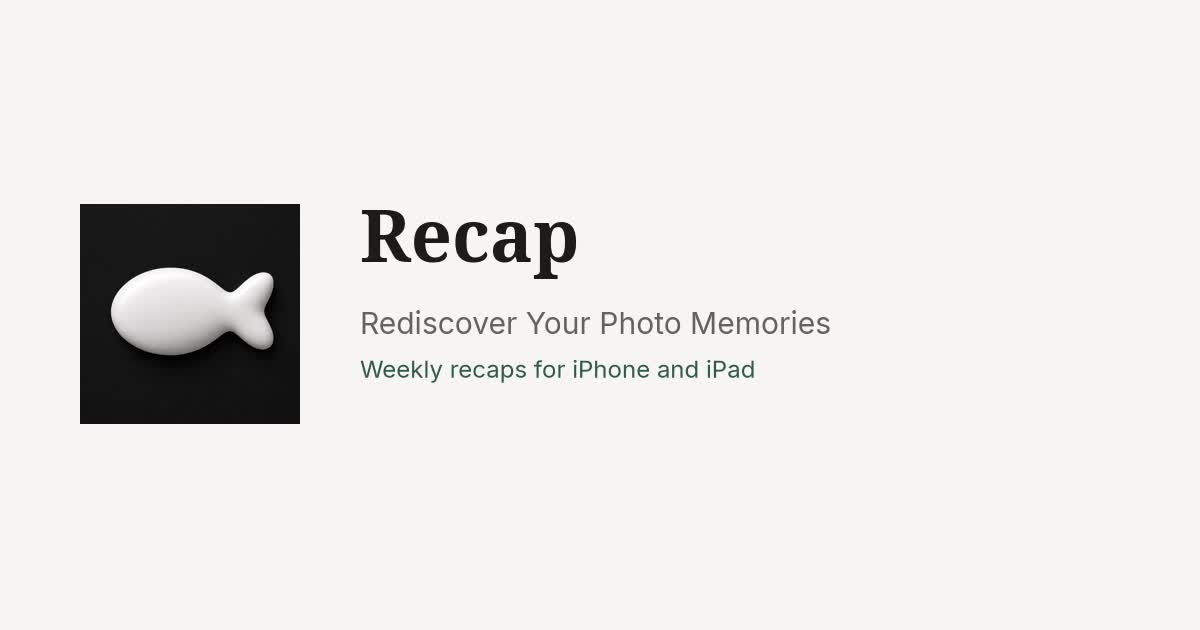
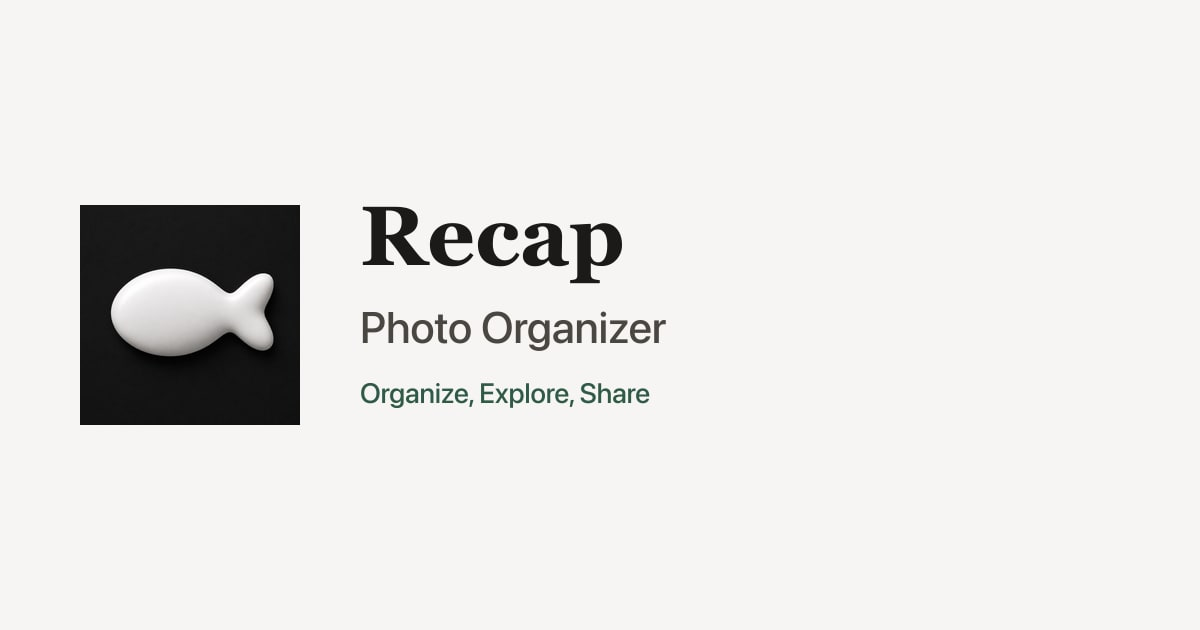
Redo the share images with the new App Store name and subtitle
Render og-home.jpg and og-home-zh.jpg from scripts/og-images.mjs: the app
icon beside "Recap", "Photo Organizer" / "相册整理" and the subtitle. Update
the og:image alt text to match.

Changed region(s): [[0.2775, 0.4825, 0.7092, 0.6635], [0.2775, 0.3016, 0.5242, 0.4524], [0.1233, 0.4222, 0.185, 0.4524]]

diff --git a/src/data/site.ts b/src/data/site.ts
@@ -74,7 +74,7 @@ export const copy = {
     lang: 'en', otherLanguage: '简体中文', otherLanguageShort: '中', languageLabel: 'Switch to Simplified Chinese', languageMenuLabel: 'Language', themeLabel: 'Theme', themeDark: 'Dark theme', themeLight: 'Light theme',
     title: 'Recap – Photo Organizer: Organize, Explore, Share',
     description: 'Recap is a weekly photo organizer for iPhone and iPad: an auto photo organizer for your library, with photo memories, a photo shuffle frame and easy sharing.',
-    ogImageAlt: 'Recap — Rediscover Your Photo Memories, with the Recap app icon',
+    ogImageAlt: 'Recap – Photo Organizer: Organize, Explore, Share, beside the Recap app icon',
     installFaqAnswer: 'Open the public invitation using a TestFlight button on this page. Install Apple’s TestFlight, accept the invitation, then install Recap. TestFlight availability is managed by Apple and the developer.',
     creditsDescription: 'Every travel, theme, and demo photograph on this site is sourced from Unsplash.',
     skip: 'Skip to content',
@@ -251,7 +251,7 @@ export const copy = {
     lang: 'zh-CN', otherLanguage: 'English', otherLanguageShort: 'EN', languageLabel: '切换为英文', languageMenuLabel: '语言', themeLabel: '主题', themeDark: '深色', themeLight: '浅色',
     title: 'Recap – 相册整理：按周回顾，自动整理照片',
     description: 'Recap 相册整理 App：按周回顾，按地点和内容自动整理照片，重温照片回忆，把手机变成随机播放的相框，一键分享。全程在设备上完成，适用于 iPhone 与 iPad。',
-    ogImageAlt: 'Recap — 重温照片里的生活，配 Recap 应用图标',
+    ogImageAlt: 'Recap 相册整理：整理 · 浏览 · 分享，配 Recap 应用图标',
     installFaqAnswer: '点击页面上的 TestFlight 按钮，打开公开邀请。安装 Apple TestFlight、接受邀请后，即可安装 Recap。名额和可用性由 Apple 与开发者管理。',
     creditsDescription: '本站旅行、主题和演示照片均来自 Unsplash。',
     skip: '跳到正文',

diff --git a/changelog.md b/changelog.md
@@ -4,9 +4,10 @@
 
 - 更新日志新增 v0.1 (264)「Recap 助手、清理与全新引导」（中英文），按 Recap 主仓库 11-03 之后的提交整理：助手按日期、季节、节日、时段、地点搜索并支持 Siri，清理相似照片，实时活动显示整理进度，往年同周切换年份，Duo 与 iPad 分栏照片详情，首次打开可先浏览示例图库。中间的 TestFlight 构建号未在仓库中留痕，合并为一条。
 - 更新日志参照 hive.ink/cn/updates 改为以功能更新和问题修复为主：每个版本是标题、一句概述，再分「新增内容 / 优化 / 修复内容」三组列表（英文 New / Improvements / Fixes，修复条目统一为「修复……的问题」/ “Fixed …”）；版本号在左栏随滚动停留，手机宽度改为上下排列。六个版本全部按 Recap 主仓库提交和 App 内 changelog 补齐分组内容；首页「更新」区仍只显示标题与概述。`llms-full.txt` 同步输出分组内容。
-- SEO / ASO 关键词（草稿）：`site.ts` 新增 `aso`，集中放 App 名称「Recap – Photo Organizer」、副标题「Organize, Explore, Share」和关键词（Organize：photo organizer / weekly photo organizer / auto photo organizer，对应 相册整理 / 按周回顾 / 自动整理；Explore：photo memories / photo frame / photo shuffle；Share 待补）。英文首页标题改为「Recap – Photo Organizer: Organize, Explore, Share」，中文为「Recap – 相册整理：按周回顾，自动整理照片」；中英文 meta description 改写为带关键词的版本；首页加 `meta keywords`；`seo.ts` 首页 JSON-LD 的 App 名称改为「Recap – Photo Organizer」，并加 `alternateName`（Recap）、`slogan`（副标题）与 `keywords`，均读取 `aso`；手写的 `llms.txt` 补上 App 名称与副标题。分享图 `og-home*.jpg` 上的「Rediscover Your Photo Memories」未重做。
+- SEO / ASO 关键词（草稿）：`site.ts` 新增 `aso`，集中放 App 名称「Recap – Photo Organizer」、副标题「Organize, Explore, Share」和关键词（Organize：photo organizer / weekly photo organizer / auto photo organizer，对应 相册整理 / 按周回顾 / 自动整理；Explore：photo memories / photo frame / photo shuffle；Share 待补）。英文首页标题改为「Recap – Photo Organizer: Organize, Explore, Share」，中文为「Recap – 相册整理：按周回顾，自动整理照片」；中英文 meta description 改写为带关键词的版本；首页加 `meta keywords`；`seo.ts` 首页 JSON-LD 的 App 名称改为「Recap – Photo Organizer」，并加 `alternateName`（Recap）、`slogan`（副标题）与 `keywords`，均读取 `aso`；手写的 `llms.txt` 补上 App 名称与副标题。
 - 页面文案配合关键词：英文四章标签改为 Organize / Explore / Share / Stats（中文本就是 整理 / 浏览 / 分享 / 统计）；首屏说明改为「The photo organizer that sorts on its own: organize every week, explore your photo memories, share the best of them.」/「相册自动整理，按周回顾照片，轻松分享，每一周的照片都有去处。」；整理章节导语加入 auto photo organizer / 相册整理，第一张卡标签改为 Weekly recap / 按周回顾、正文加入 weekly photo organizer；浏览章节标题改为 Three new ways to explore，导语与随机模式、往年同周的正文加入 photo frame、photo shuffle、photo memories（中文：相框、随机播放、照片回忆）；页脚标语改为副标题的意思（Organize, explore and share every week of photos. / 整理、浏览、分享，每一周的照片。）。首屏大标题、FAQ 与定价未改。验证：构建与 verify 通过，本地预览确认中英文首屏说明仍为两行、整理章节导语显示正常。
 - LLM 与爬虫：新增 `/llms-full.txt`（中英文完整功能、隐私、定价、安装、常见问题与分组更新日志），由 `src/data/llms.ts` 从页面文案与 `releases.ts` 构建时生成；手写的 `/llms.txt` 指向它。`robots.txt` 保留 www 站点地图与 `Disallow: /v2/`，另外明确放行 GPTBot、OAI-SearchBot、ChatGPT-User、ClaudeBot、Claude-SearchBot、Claude-User、PerplexityBot、Perplexity-User、Google-Extended、Applebot-Extended、CCBot。`npm run verify` 检查 llms-full.txt 存在、含双语更新日志且只用 www。
+- 分享图 `og-home.jpg` / `og-home-zh.jpg` 按新名称与副标题重做（1200×630，版式不变：左侧 App 图标，右侧三行）：英文「Recap / Photo Organizer / Organize, Explore, Share」，中文「Recap / 相册整理 / 整理 · 浏览 · 分享」（中文副标题暂用章节名，待定）；`og:image:alt` 同步。新增 `scripts/og-images.mjs`，用 sharp 按 macOS 系统字体渲染，改 `aso` 后重跑即可。验证：构建与 verify 通过，目视检查两张图。
 - 以上改动原在 v2 分支开发，v2 已提升为正式根路径，改为直接提交到 main。
 
 ## 2026-11-23
